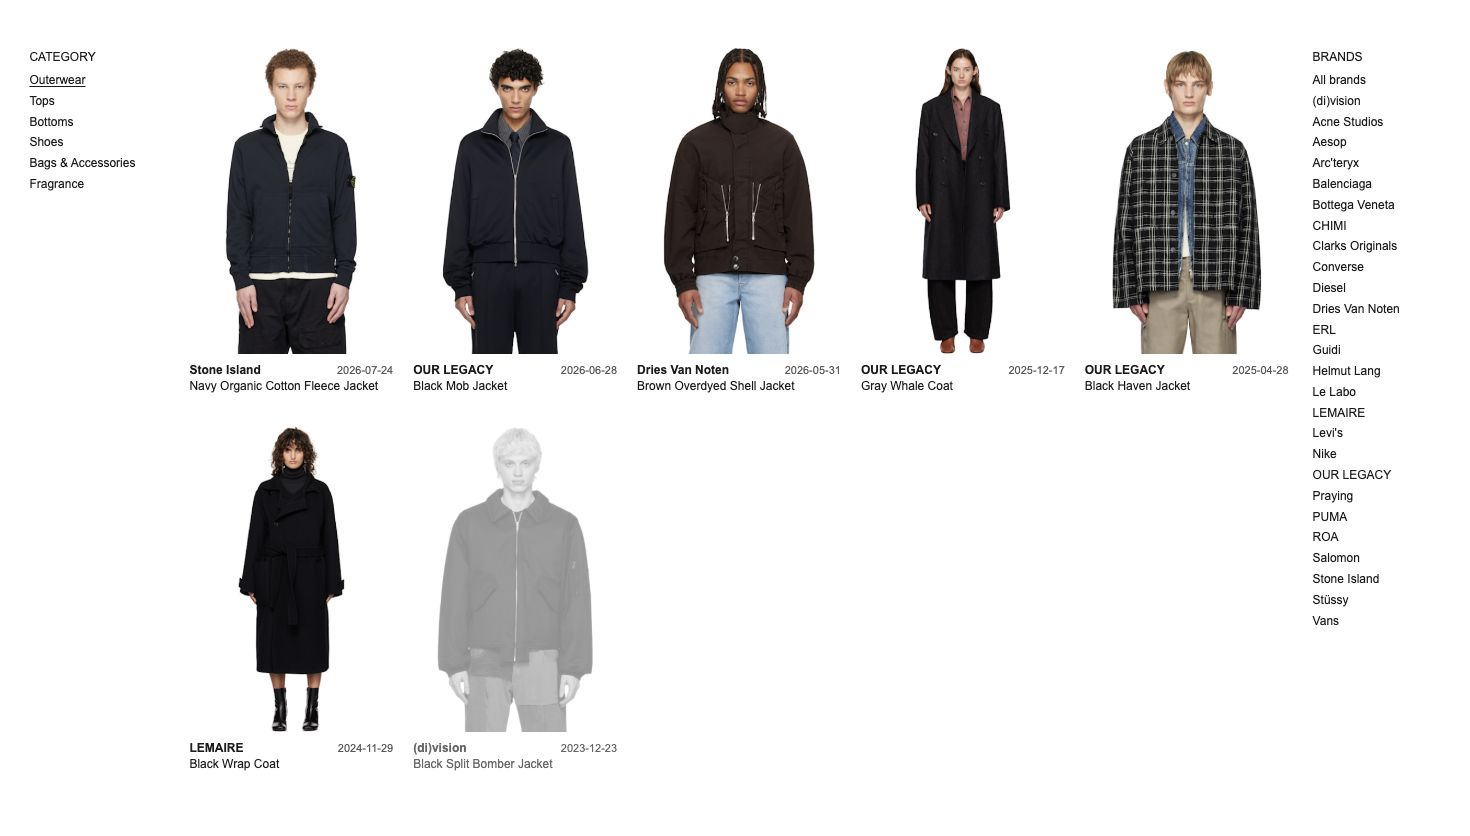
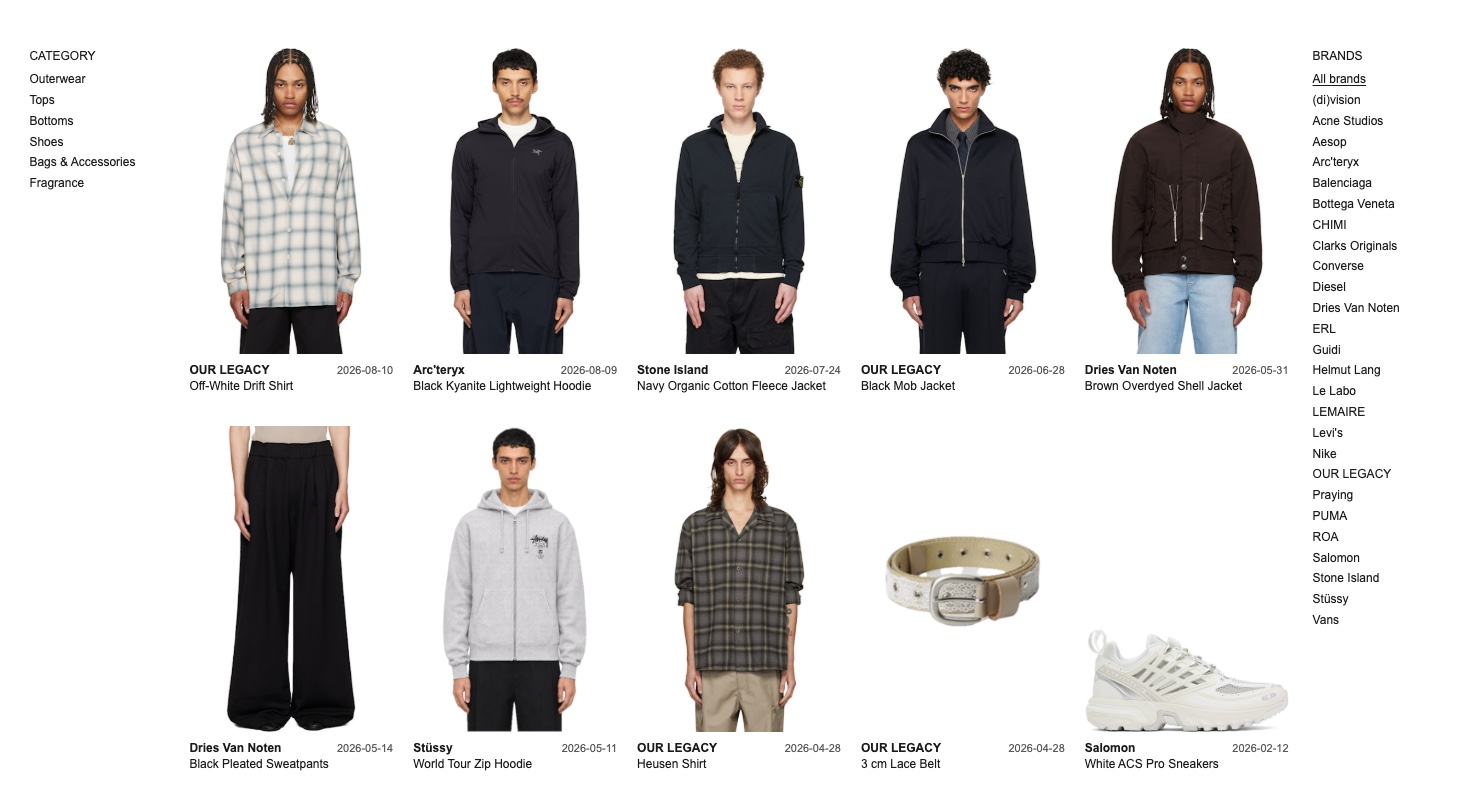
update wardrobe blog charts and screenshot

diff --git a/blog/cyber-wardrobe.html b/blog/cyber-wardrobe.html
@@ -30,6 +30,8 @@
         I made this database to keep a record of what I chose along the way.
       </p>
 
+      <p class="blog-post-links"><a href="../wardrobe.html">Open the Wardrobe →</a></p>
+
       <p>
         As I get older, I’m more selective about what goes into my wardrobe. I have to really like it, it has to suit
         me, and it has to feel comfortable.
@@ -47,8 +49,8 @@
       </p>
 
       <figure class="blog-post-source-figure">
-        <a href="../asset/blog/cyber-wardrobe.jpg" target="_blank" rel="noopener noreferrer" aria-label="Open the full-size wardrobe screenshot in a new tab">
-          <img src="../asset/blog/cyber-wardrobe.jpg" alt="The Wardrobe page with categories on the left, outerwear cards in the middle, and brands on the right" width="1470" height="836">
+        <a href="../asset/blog/cyber-wardrobe.jpg?v=all-brands" target="_blank" rel="noopener noreferrer" aria-label="Open the full-size wardrobe screenshot in a new tab">
+          <img src="../asset/blog/cyber-wardrobe.jpg?v=all-brands" alt="The All brands view with categories on the left, product cards in the middle, and brands on the right" width="1470" height="788">
         </a>
       </figure>
 
@@ -60,7 +62,7 @@
 
       <h2>What I Kept</h2>
       <figure class="wardrobe-chart">
-        <img src="../asset/blog/wardrobe-retention.svg?v=year" width="620" height="272"
+        <img src="../asset/blog/wardrobe-retention.svg?v=compact" width="620" height="248"
           alt="Items kept by purchase year. 2021, 2 of 2. 2022, 3 of 3. 2023, 5 of 5. 2024, 12 of 31 or 39%. 2025, 17 of 32 or 53%. 2026 through November 9, 8 of 10 or 80%.">
       </figure>
       <p>
@@ -70,14 +72,14 @@
 
       <h2>What’s in My Wardrobe</h2>
       <figure class="wardrobe-chart">
-        <img src="../asset/blog/wardrobe-categories.svg" width="620" height="262"
-          alt="Current wardrobe by category. 39 items. Outerwear, 6. Tops, 7. Bottoms, 5. Shoes, 7. Bags &amp; Accessories, 11. Fragrance, 3.">
+        <img src="../asset/blog/wardrobe-categories.svg?v=compact" width="620" height="324"
+          alt="39 items currently in the wardrobe, grouped by purchase year. 2021, 0 items. 2022, 0 items. 2023, Bags &amp; Accessories 1. 2024, Outerwear 1, Bottoms 1, Shoes 2, Bags &amp; Accessories 4. 2025, Outerwear 2, Tops 3, Bottoms 3, Shoes 3, Bags &amp; Accessories 5. 2026, Outerwear 3, Tops 4, Bottoms 1, Shoes 2, Bags &amp; Accessories 1. Unknown year, Fragrance 3.">
       </figure>
 
       <h2>What I Spent</h2>
       <figure class="wardrobe-chart">
-        <img src="../asset/blog/wardrobe-spending.svg?v=blue" width="620" height="278"
-          alt="Final SSENSE spending in Canadian dollars. Total after return refunds $15,355.28. 2021, $198.88. 2022, $172.89. 2023, $691.56. 2024, $5,708.76. 2025, $6,298.90. 2026 through November 9, $2,284.29.">
+        <img src="../asset/blog/wardrobe-spending.svg?v=compact" width="620" height="252"
+          alt="Final SSENSE spending in Canadian dollars. 2021, $198.88. 2022, $172.89. 2023, $691.56. 2024, $5,708.76. 2025, $6,298.90. 2026 through November 9, $2,284.29.">
       </figure>
       <p>
         I was most into shopping in 2024 and 2025. I had plenty of free time back then, and I spent a lot of it
@@ -201,8 +203,6 @@
       <p>
         2025 was my busiest year in this record, with 26 orders. Five of them were in May.
       </p>
-
-      <p class="blog-post-links"><a href="../wardrobe.html">Open the Wardrobe →</a></p>
     </article>
   </main>
 </body>

diff --git a/pages/blog.html b/pages/blog.html
@@ -15,7 +15,7 @@
       <span>03</span>
     </div>
     <a class="blog-card-thumb blog-card-thumb--screenshot" href="blog/cyber-wardrobe.html" target="_blank" rel="noopener noreferrer" aria-label="Open My Wardrobe in a new tab">
-      <img src="asset/blog/cyber-wardrobe.jpg" alt="The Wardrobe page with categories, outerwear cards, and brands" loading="lazy">
+      <img src="asset/blog/cyber-wardrobe.jpg?v=all-brands" alt="The Wardrobe’s All brands view with categories, product cards, and brands" loading="lazy">
     </a>
     <div class="blog-card-body">
       <p class="blog-meta"><time datetime="2026-11-09">2026.11.09</time></p>
